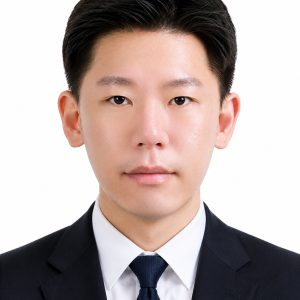
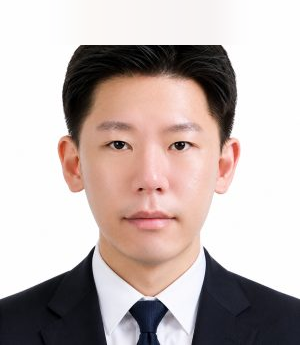
Add headroom to three cropped committee portraits
Seokjun Kim, Jehyuk Yoo and SeongEun Kim were supplied as ID-style photos
whose frame stops at the crown, so their heads ran into the top edge of the
card while Sangkeun Lee and Hocheol Choi did not. Measured at the top row,
their hair spanned 95px, 142px and 127px respectively; the other two spanned
14px and 0px.

Extend each canvas 45px upward and fill it by continuing the background
across the seam: sample the top rows per column, interpolate across the
columns the hair covers, then smooth horizontally so the studio gradient
carries through instead of banding. Mean seam delta is 0.4-1.5/255.

Image dimension attributes updated to 300x345 to match.

diff --git a/index.html b/index.html
@@ -1367,7 +1367,7 @@
         <li class="committee-card">
           <div class="committee-photo-wrap">
             <div class="committee-photo">
-              <img src="assets/images/seokjun_kim.png" alt="Seokjun Kim, Executive Committee" width="300" height="300" loading="lazy" decoding="async">
+              <img src="assets/images/seokjun_kim.png" alt="Seokjun Kim, Executive Committee" width="300" height="345" loading="lazy" decoding="async">
             </div>
             <div class="committee-photo-accent" aria-hidden="true"></div>
           </div>
@@ -1377,7 +1377,7 @@
         <li class="committee-card">
           <div class="committee-photo-wrap">
             <div class="committee-photo">
-              <img src="assets/images/jehyuk_yoo.png" alt="Jehyuk Yoo, Executive Committee" width="300" height="300" loading="lazy" decoding="async">
+              <img src="assets/images/jehyuk_yoo.png" alt="Jehyuk Yoo, Executive Committee" width="300" height="345" loading="lazy" decoding="async">
             </div>
             <div class="committee-photo-accent" aria-hidden="true"></div>
           </div>
@@ -1406,7 +1406,7 @@
         <li class="committee-card">
           <div class="committee-photo-wrap">
             <div class="committee-photo">
-              <img src="assets/images/seongeun_kim.png" alt="SeongEun Kim, Advisor" width="300" height="300" loading="lazy" decoding="async">
+              <img src="assets/images/seongeun_kim.png" alt="SeongEun Kim, Advisor" width="300" height="345" loading="lazy" decoding="async">
             </div>
             <div class="committee-photo-accent" aria-hidden="true"></div>
           </div>
